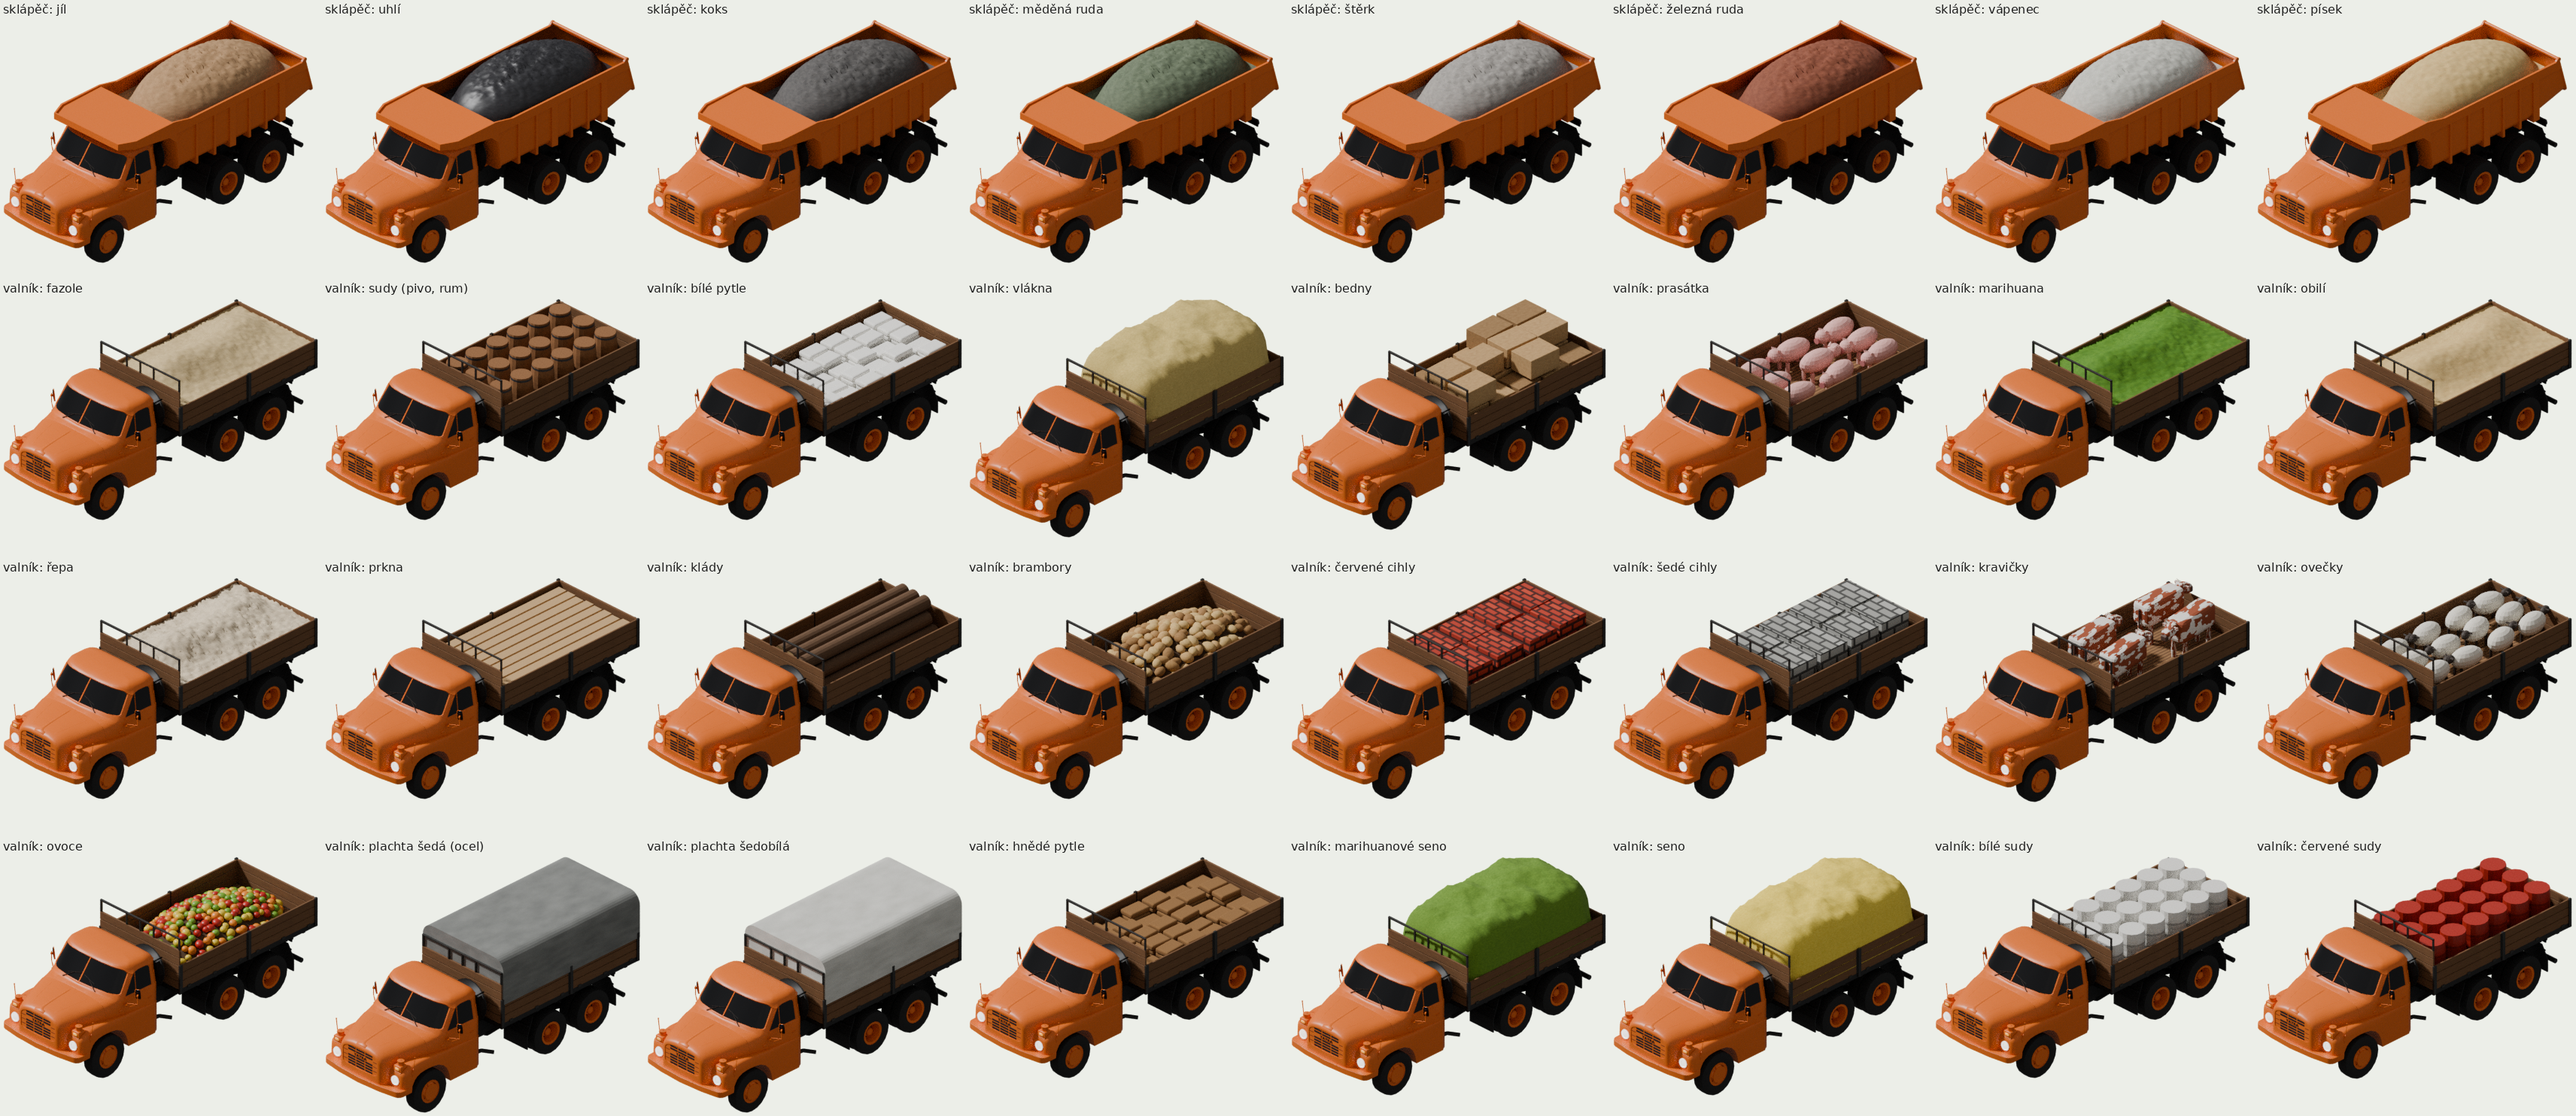
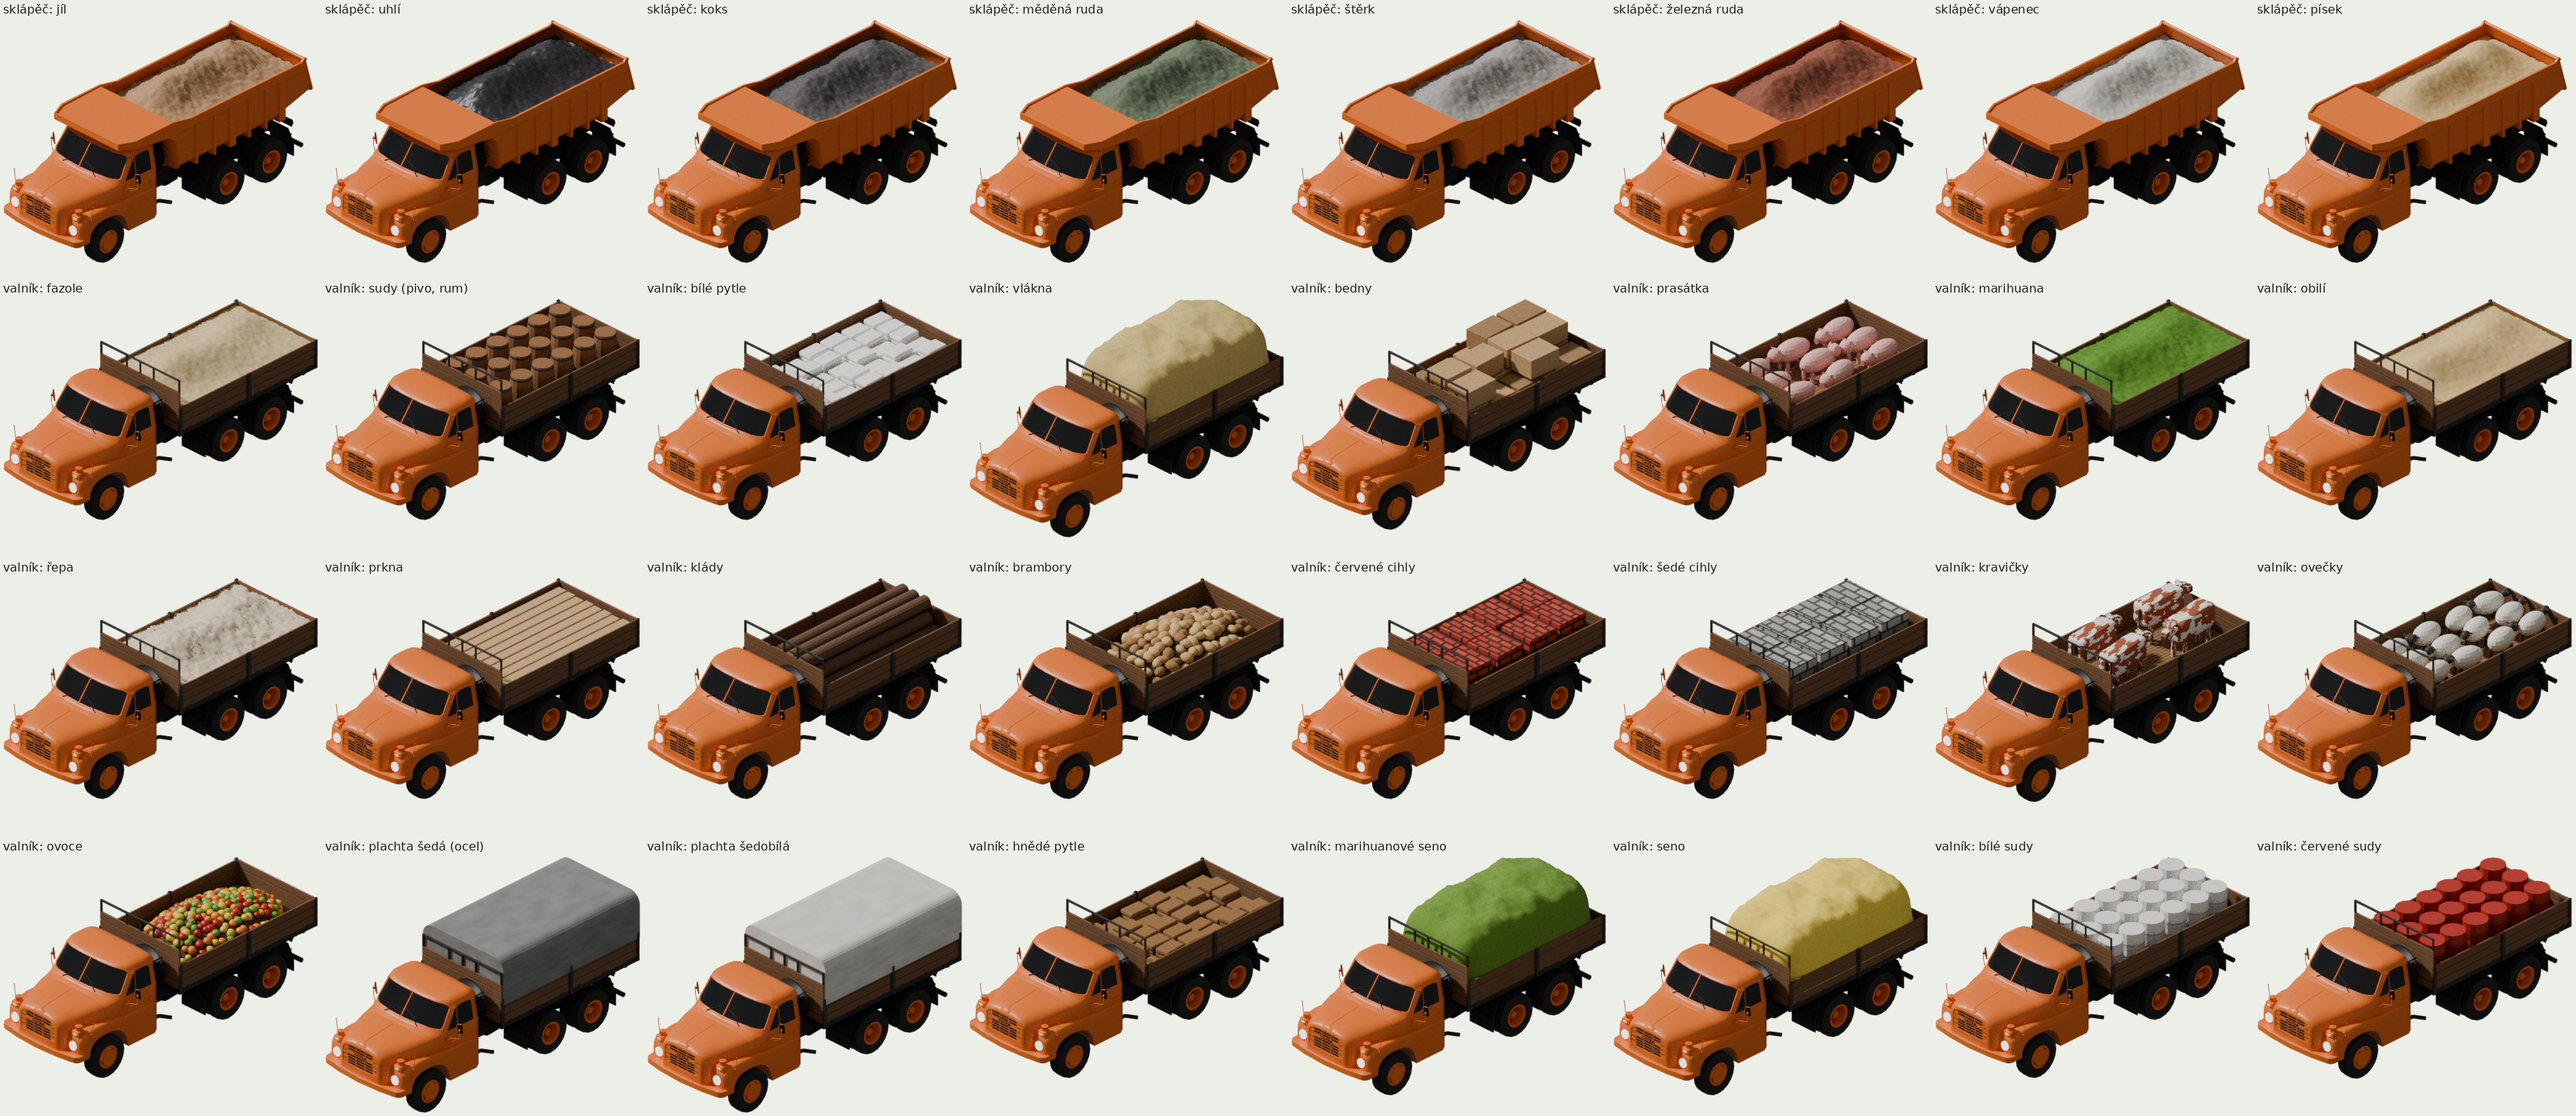
Tatra: kupa na sklapeci taky rozsypana jako na valniku
Claude-Session: https://claude.ai/code/session_01P6zYdmMEQjTTZJyV6Qb8Ch

diff --git a/tatra/render_sklapec.py b/tatra/render_sklapec.py
@@ -407,26 +407,25 @@ if NAKLAD_KOD:
     V3 = {"bpy": bpy, "math": math, "np": np, "os": os, "scene": scene, "Vector": Vector, "mn": Vector((0.0, 0.0, 0.0))}
     exec(compile(zdroj[zdroj.index("# ---------------------------------------------------------------- naklad na korbe"):
                        zdroj.index("NAKLAD_KOD = ")], "v3s/render_v3s.py", "exec"), V3)
-    auto = [o for o in scene.objects if o.type in ('MESH', 'FONT') and not o.hide_render]
-    if KORBA == "sklapec":
-        # Kupa v korbe S1 (namereno paprsky, rez.py a bok.py): podlaha z 1,46 (u bocnic zaoblena nahoru, vzadu od y 5,9
-        # stoupa na 1,66), bocnice x +-1,13, nahore z 2,39 az 2,61, predni celo y 2,75, zadni y 6,75 nahore z 2,59.
-        # Hrac 29. 9.: "kupicku vetsi o 20 % na vysku, celou kupicku vys". Kupa korbu vyplni az tesne pod okraj bocnic
-        # (DNO_KUPY, okraj je schovany za bocnicemi a cely) a nad bocnice kouka o 20 % vys a cela o 0,2 m vys nez
-        # na prvnim nahledu: vrchol 2,83 -> 3,07 m. Kdyz byla kupa na podlaze a jen vysoka, vypadala v korbe jako vejce.
-        tm, sv, drs, hrubost, mer = V3["NAKLAD"][NAKLAD_KOD]
-        mk = V3["material"]("kupa", V3["srgb"](tm), V3["srgb"](sv), drs, mer)
-        KX, KY0, KY1 = 1.135, 2.77, 6.73
-        DNO_KUPY = float(os.environ.get("DNO_KUPY", "2.28")); VRCH_KUPY = float(os.environ.get("VRCH_KUPY", "3.07"))
-        random.seed(7); B = (KY1 - KY0) / 2; YS = (KY0 + KY1) / 2
-        bm = bmesh.new(); NX, NY = 40, 80; vrch = {}
+    def rozsypana_kupa(mk, KX_, KY0_, KY1_, DNO, hrubost, vysky=(0.30, 0.42), seed=11):
+        """Rozsypana kupa (hrac 29. 9.: "je to jak bochnik chleba, rozsypej to jako kdyz zadrnca", pak "ve valniku jsi
+        to hezky rozsypal, takhle to udelej i ve sklapecce"): korba plna po DNO (tesne pod okrajem, okraj kupy schovany
+        za bocnicemi) a nad tim tri nizke nepravidelne hrbolky jako sesednuta hromada po ceste, povrch zvlneny
+        a hrudkovity podle hrubosti nakladu."""
+        random.seed(seed)
+        B_ = (KY1_ - KY0_) / 2; YS_ = (KY0_ + KY1_) / 2
+        hrby = [(random.uniform(-0.35, 0.35), KY0_ + (KY1_ - KY0_) * f_ + random.uniform(-0.2, 0.2),
+                 random.uniform(*vysky), random.uniform(0.5, 0.7), random.uniform(0.6, 0.9)) for f_ in (0.2, 0.5, 0.8)]
+        vlny = [(random.uniform(0, 6.3), random.uniform(0, 6.3), random.uniform(1.5, 3.0), random.uniform(1.0, 2.2)) for _ in range(4)]
+        bm = bmesh.new(); NX, NY = 48, 96; vrch = {}
         hr = [[random.uniform(-1, 1) for _ in range(NY // 4 + 2)] for _ in range(NX // 4 + 2)]
         for i in range(NX + 1):
             for j in range(NY + 1):
-                x = -KX + 2 * KX * i / NX; y = YS - B + 2 * B * j / NY
-                sk = max(0.0, 1 - (abs(x) / KX) ** 2.2 - (abs(y - YS) / B) ** 2.2)
-                hrudka = hr[i // 4][j // 4] * 0.035 * max(0.0, hrubost - 0.7) * sk
-                z = DNO_KUPY + (VRCH_KUPY - DNO_KUPY) * sk ** 0.6 + (random.uniform(-0.04, 0.04) * sk * hrubost if sk > 0 else 0) + hrudka - 0.02
+                x = -KX_ + 2 * KX_ * i / NX; y = KY0_ + (KY1_ - KY0_) * j / NY
+                okraj = (1 - (abs(x) / KX_) ** 6) * (1 - (abs(y - YS_) / B_) ** 6)
+                h = sum(a * math.exp(-((x - hx) / sx) ** 2 - ((y - hy) / sy) ** 2) for hx, hy, a, sx, sy in hrby)
+                h += sum(0.025 * math.sin(fx * x + px_) * math.sin(fy * y + py_) for px_, py_, fx, fy in vlny)
+                z = DNO + max(0.0, h) * okraj + hr[i // 4][j // 4] * 0.03 * max(0.0, hrubost - 0.6) + random.uniform(-0.02, 0.02) * hrubost
                 vrch[i, j] = bm.verts.new((x, y, z))
         for i in range(NX):
             for j in range(NY):
@@ -434,7 +433,17 @@ if NAKLAD_KOD:
         me = bpy.data.meshes.new("kupa"); bm.to_mesh(me); bm.free()
         for f in me.polygons: f.use_smooth = True
         ob = bpy.data.objects.new("kupa", me); scene.collection.objects.link(ob); ob.data.materials.append(mk)
-        nalozeno = [ob]
+        return [ob]
+    auto = [o for o in scene.objects if o.type in ('MESH', 'FONT') and not o.hide_render]
+    if KORBA == "sklapec":
+        # Kupa v korbe S1 (namereno paprsky, rez.py a bok.py): podlaha z 1,46 (u bocnic zaoblena nahoru, vzadu od y 5,9
+        # stoupa na 1,66), bocnice x +-1,13, vnitrek do z 2,39 a nad nim horni lem do 2,61, predni celo y 2,75 (nahore
+        # 2,69), zadni y 6,75 (nahore 2,59). Drive bochnik s vrcholem 3,07 (hrac: "kupicku vetsi o 20 % na vysku, celou
+        # kupicku vys"), od 29. 9. rozsypana jako na valniku: korba plna po 2,33 a hrbolky 0,45 az 0,60 m, aby nad
+        # vysokym hornim lemem koukaly asi jako na valniku nad bocnicemi.
+        tm, sv, drs, hrubost, mer = V3["NAKLAD"][NAKLAD_KOD]
+        mk = V3["material"]("kupa", V3["srgb"](tm), V3["srgb"](sv), drs, mer)
+        nalozeno = rozsypana_kupa(mk, 1.13, 2.77, 6.73, float(os.environ.get("DNO_KUPY", "2.33")), hrubost, vysky=(0.45, 0.60), seed=7)
     elif KORBA in ("valnik", "plachta"):
         # valnik: podlaha z 1,36, vnitrek bocnic x +-1,20, cela y 2,74 a 6,96; okraje jako u vejtrasky (asi 8 cm)
         V3.update(PODLAHA=ZP_, KX=1.12, KY0=Y0N + 0.10, KY1=Y1N - 0.10)
@@ -449,30 +458,7 @@ if NAKLAD_KOD:
             # (0,30 az 0,42 m) jako sesednuta hromada po ceste, povrch zvlneny a hrudkovity podle hrubosti nakladu.
             tm, sv, drs, hrubost, mer = V3["NAKLAD"][NAKLAD_KOD]
             mk = V3["material"]("naklad", V3["srgb"](tm), V3["srgb"](sv), drs, mer)
-            random.seed(11)
-            KX_, KY0_, KY1_ = XV - 0.035, Y0N + 0.04, Y1N - 0.04               # az k vnitrku bocnic a cel
-            DNO = ZP_ + BOK - 0.08
-            B_ = (KY1_ - KY0_) / 2; YS_ = (KY0_ + KY1_) / 2
-            hrby = [(random.uniform(-0.35, 0.35), KY0_ + (KY1_ - KY0_) * f_ + random.uniform(-0.2, 0.2),
-                     random.uniform(0.30, 0.42), random.uniform(0.5, 0.7), random.uniform(0.6, 0.9)) for f_ in (0.2, 0.5, 0.8)]
-            vlny = [(random.uniform(0, 6.3), random.uniform(0, 6.3), random.uniform(1.5, 3.0), random.uniform(1.0, 2.2)) for _ in range(4)]
-            bm = bmesh.new(); NX, NY = 48, 96; vrch = {}
-            hr = [[random.uniform(-1, 1) for _ in range(NY // 4 + 2)] for _ in range(NX // 4 + 2)]
-            for i in range(NX + 1):
-                for j in range(NY + 1):
-                    x = -KX_ + 2 * KX_ * i / NX; y = KY0_ + (KY1_ - KY0_) * j / NY
-                    okraj = (1 - (abs(x) / KX_) ** 6) * (1 - (abs(y - YS_) / B_) ** 6)
-                    h = sum(a * math.exp(-((x - hx) / sx) ** 2 - ((y - hy) / sy) ** 2) for hx, hy, a, sx, sy in hrby)
-                    h += sum(0.025 * math.sin(fx * x + px_) * math.sin(fy * y + py_) for px_, py_, fx, fy in vlny)
-                    z = DNO + max(0.0, h) * okraj + hr[i // 4][j // 4] * 0.03 * max(0.0, hrubost - 0.6) + random.uniform(-0.02, 0.02) * hrubost
-                    vrch[i, j] = bm.verts.new((x, y, z))
-            for i in range(NX):
-                for j in range(NY):
-                    bm.faces.new((vrch[i, j], vrch[i + 1, j], vrch[i + 1, j + 1], vrch[i, j + 1]))
-            me = bpy.data.meshes.new("kupa_valnik"); bm.to_mesh(me); bm.free()
-            for f in me.polygons: f.use_smooth = True
-            ob = bpy.data.objects.new("kupa_valnik", me); scene.collection.objects.link(ob); ob.data.materials.append(mk)
-            nalozeno = [ob]
+            nalozeno = rozsypana_kupa(mk, XV - 0.035, Y0N + 0.04, Y1N - 0.04, ZP_ + BOK - 0.08, hrubost)
         else: raise SystemExit(f"naklad {NAKLAD_KOD} na valnik neumim")
     else:
         raise SystemExit(f"naklad na korbu {KORBA} neni (tekutiny jsou barvou cisterny)")

diff --git a/tatra/README.md b/tatra/README.md
@@ -102,6 +102,8 @@ vojenská, oranžový tatrovácky 148 a červený komunistická červená 138“
     (modrá cisterna).
   - **Kupa na valníku** (hráč: *„trochu tu kupu rozsypej, je to jak bochník chleba, rozsypej to jako když zadrncá“*,
     *„kupa nevadila ve sklápěčce, ale na valníku to vypadá nepřirozeně“*): korba plná skoro po okraj bočnic a nad tím
-    tři nízké nepravidelné hrbolky (0,30 až 0,42 m), povrch zvlněný. Na sklápěči zůstává kupa jako dřív.
+    tři nízké nepravidelné hrbolky (0,30 až 0,42 m), povrch zvlněný. Pak *„ve valníku jsi to hezky rozsypal, takhle
+    to udělej i ve sklápěčce“*: sklápěč je taky rozsypaný (plný po 2,33 m, hrbolky 0,45 až 0,60 m, aby nad vysokým
+    horním lemem korby koukaly asi jako na valníku). Obojí dělá `rozsypana_kupa()`.
   - Přehled všech nákladů: `nahledy/naklady.png`.
 - Náhled barev: `nahledy/barvy.png`.
